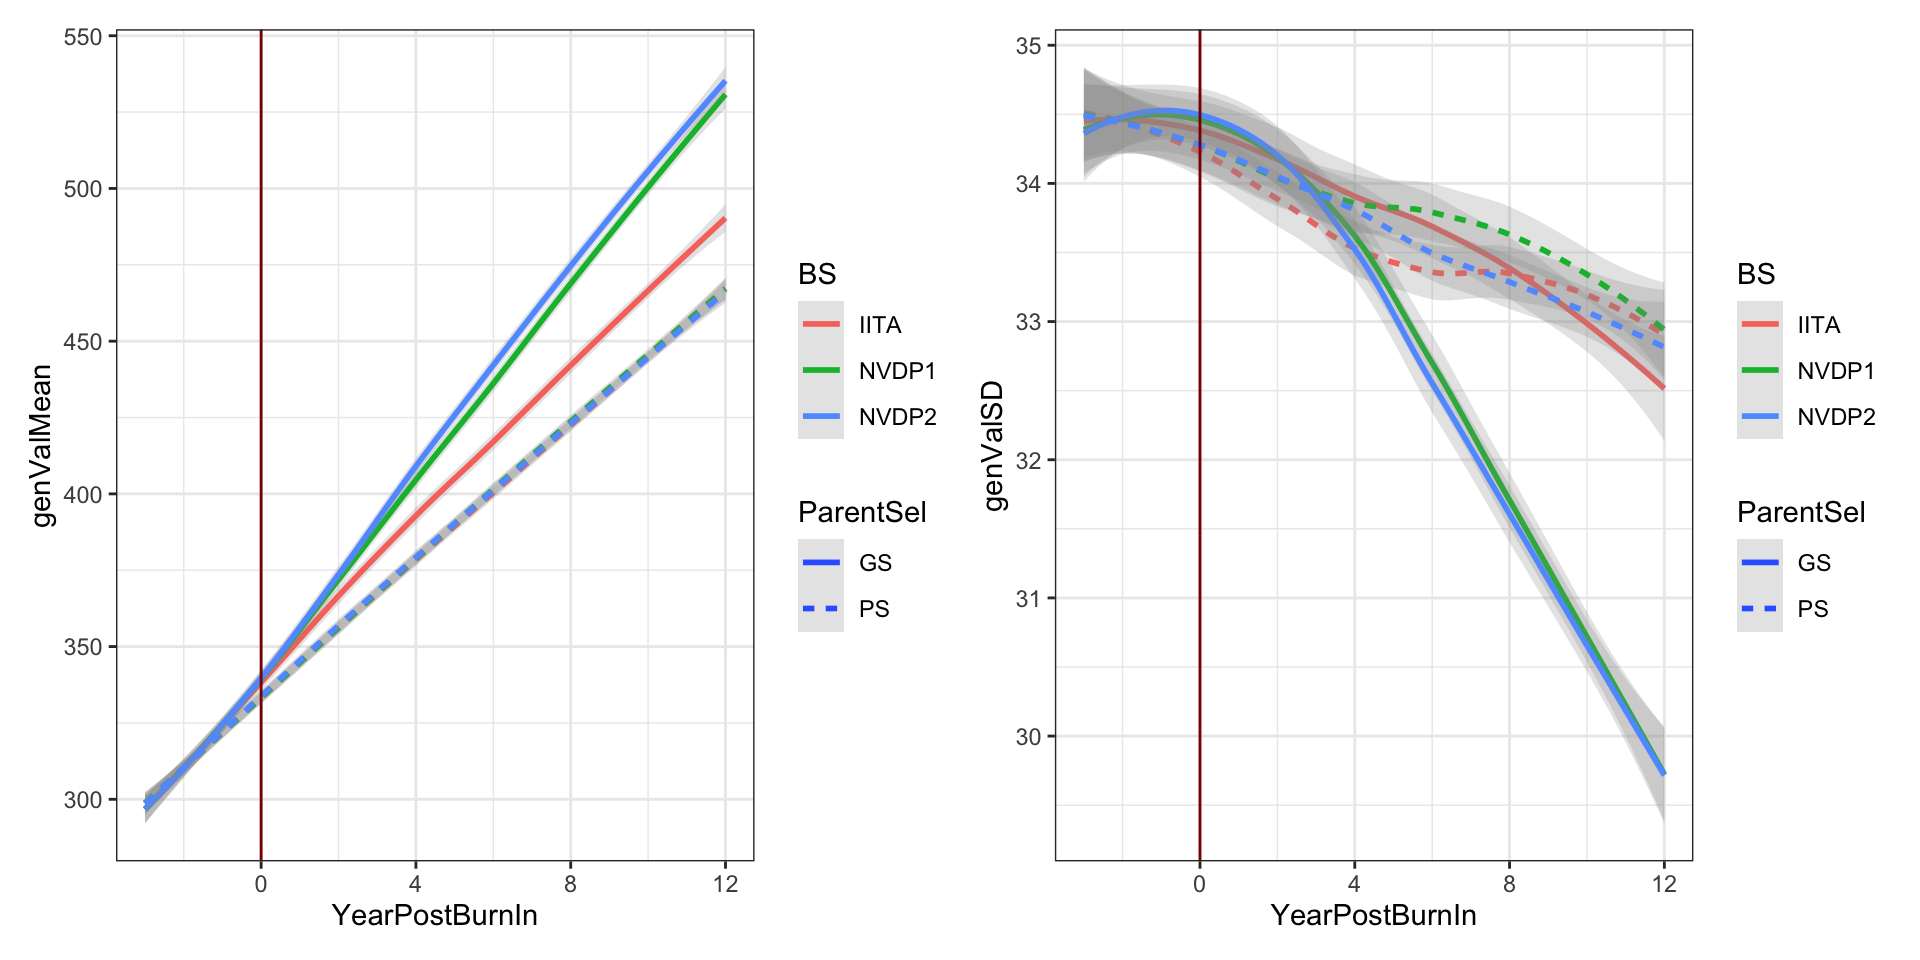
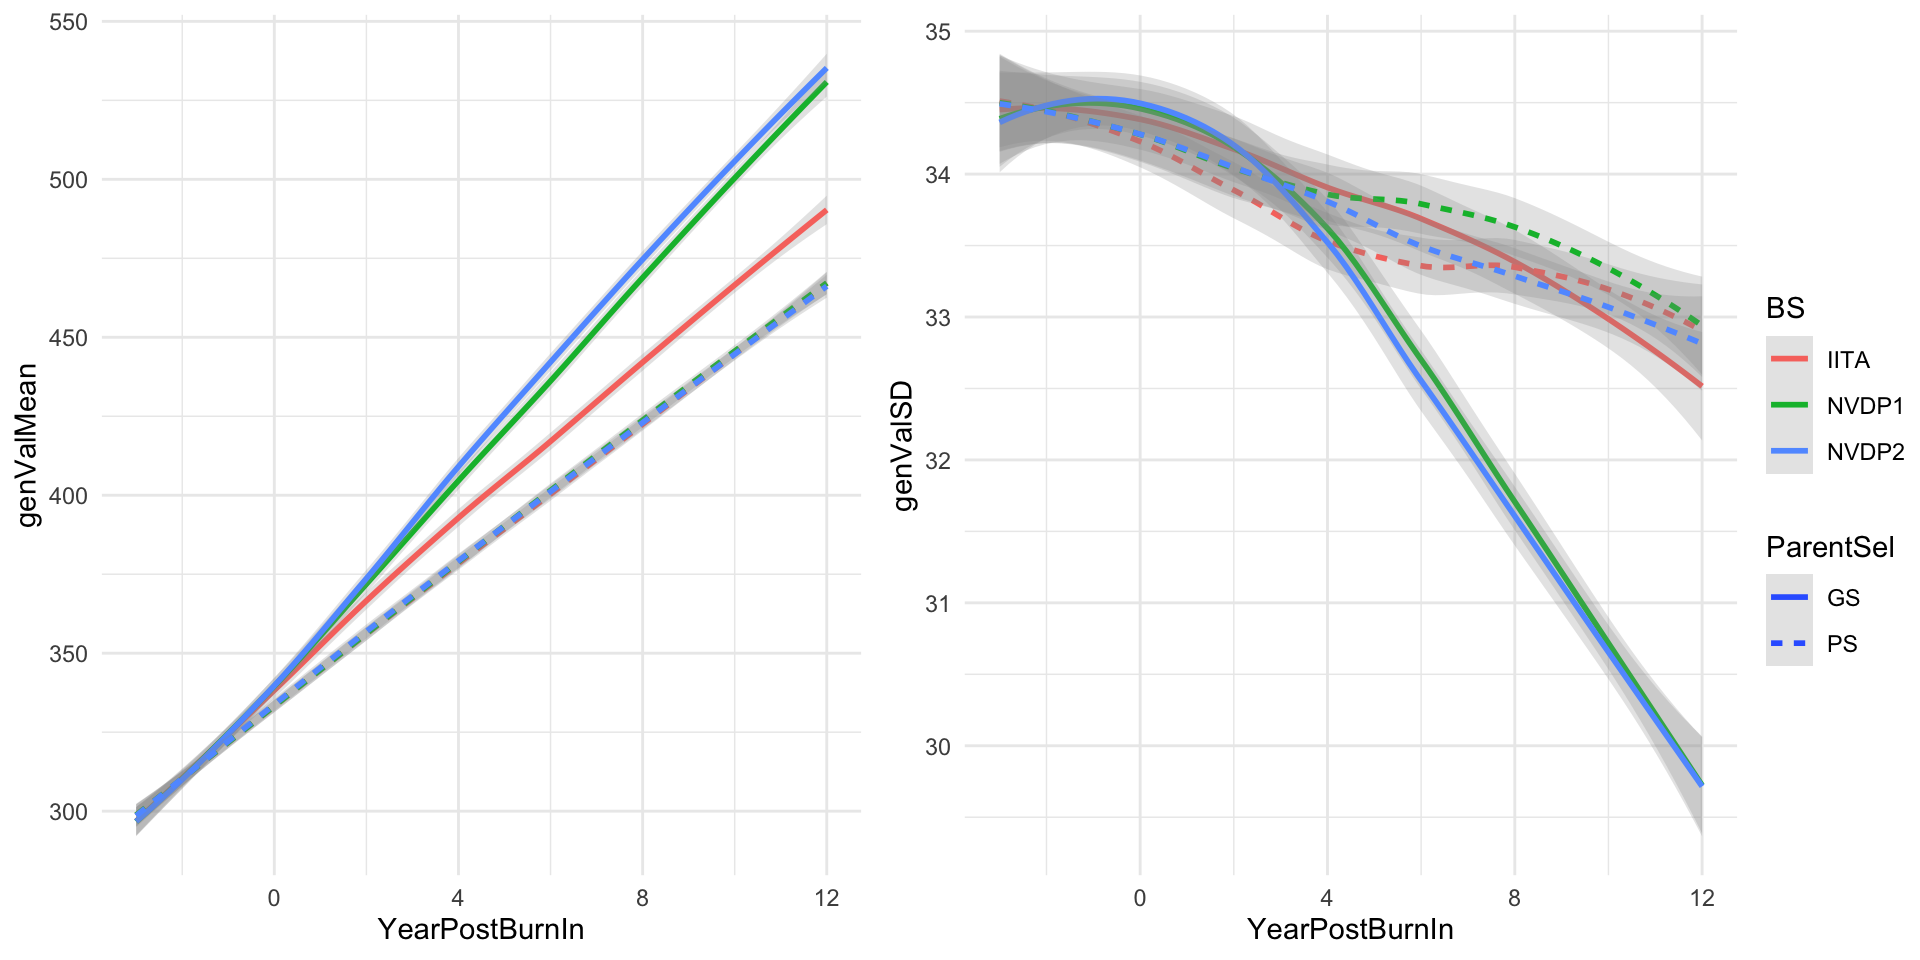
Changuing the figures to have a common legend

diff --git a/docs/VD_Optimization.html b/docs/VD_Optimization.html
@@ -509,16 +509,16 @@ This reproducible <a href="https://rmarkdown.rstudio.com">R Markdown</a> analysi
 <div class="panel panel-default">
 <div class="panel-heading">
 <p class="panel-title">
-<a data-toggle="collapse" data-parent="#workflowr-checks" href="#strongRepositoryversionstrongahrefhttpsgithubcomLucianoRogerioCassavaBreedingSimtreefb5483506c7ab6e9d56990ff02b90df05d6ae77atargetblankfb54835a"> <span class="glyphicon glyphicon-ok text-success" aria-hidden="true"></span> <strong>Repository version:</strong> <a href="https://github.com/LucianoRogerio/CassavaBreedingSim/tree/fb5483506c7ab6e9d56990ff02b90df05d6ae77a" target="_blank">fb54835</a> </a>
+<a data-toggle="collapse" data-parent="#workflowr-checks" href="#strongRepositoryversionstrongahrefhttpsgithubcomLucianoRogerioCassavaBreedingSimtree93d96138687aaa1ee86970a0293a97dfa7d9aa11targetblank93d9613a"> <span class="glyphicon glyphicon-ok text-success" aria-hidden="true"></span> <strong>Repository version:</strong> <a href="https://github.com/LucianoRogerio/CassavaBreedingSim/tree/93d96138687aaa1ee86970a0293a97dfa7d9aa11" target="_blank">93d9613</a> </a>
 </p>
 </div>
[2 lines of base64/hex data omitted]
 <div class="panel-body">
 <p>
 Great! You are using Git for version control. Tracking code development and connecting the code version to the results is critical for reproducibility.
 </p>
 <p>
-The results in this page were generated with repository version <a href="https://github.com/LucianoRogerio/CassavaBreedingSim/tree/fb5483506c7ab6e9d56990ff02b90df05d6ae77a" target="_blank">fb54835</a>. See the <em>Past versions</em> tab to see a history of the changes made to the R Markdown and HTML files.
+The results in this page were generated with repository version <a href="https://github.com/LucianoRogerio/CassavaBreedingSim/tree/93d96138687aaa1ee86970a0293a97dfa7d9aa11" target="_blank">93d9613</a>. See the <em>Past versions</em> tab to see a history of the changes made to the R Markdown and HTML files.
 </p>
 <p>
 Note that you need to be careful to ensure that all relevant files for the analysis have been committed to Git prior to generating the results (you can use <code>wflow_publish</code> or <code>wflow_git_commit</code>). workflowr only checks the R Markdown file, but you know if there are other scripts or data files that it depends on. Below is the status of the Git repository when the results were generated:
@@ -528,24 +528,11 @@ Ignored files:
     Ignored:    .DS_Store
     Ignored:    .Rhistory
     Ignored:    .Rproj.user/
+    Ignored:    analysis/figure/
     Ignored:    output/.Rhistory
 
-Untracked files:
-    Untracked:  output/DataSimPlotIITA_F1.rds
-    Untracked:  output/DataSimPlotIITA_NVDP2_AYT.rds
-    Untracked:  output/DataSimPlotIITA_NVDP2_F1.rds
-    Untracked:  output/DataSimPlotIITA_NVDP_F1.rds
-    Untracked:  output/DataSimPlotIITA_NVDP_UYT1.rds
-    Untracked:  output/DataSimPlotIITA_UYT2.rds
-    Untracked:  output/F1ResultsIITA.rds
-    Untracked:  output/LastStageResultsIITA.rds
-
 Unstaged changes:
-    Modified:   analysis/IITABS.Rmd
-    Modified:   analysis/NVDP1.Rmd
-    Modified:   analysis/NVDP2.Rmd
     Modified:   analysis/VD_Optimization.Rmd
-    Modified:   analysis/graphics.Rmd
 
 </code></pre>
 <p>
@@ -584,6 +571,40 @@ Message
 </tr>
 </thead>
 <tbody>
+<tr>
+<td>
+Rmd
+</td>
+<td>
+<a href="https://github.com/LucianoRogerio/CassavaBreedingSim/blob/93d96138687aaa1ee86970a0293a97dfa7d9aa11/analysis/VD_Optimization.Rmd" target="_blank">93d9613</a>
+</td>
+<td>
+LucianoRogerio
+</td>
+<td>
+2022-01-27
+</td>
+<td>
+New Results from first Simulations with NVDP
+</td>
+</tr>
+<tr>
+<td>
+html
+</td>
+<td>
+<a href="https://rawcdn.githack.com/LucianoRogerio/CassavaBreedingSim/93d96138687aaa1ee86970a0293a97dfa7d9aa11/docs/VD_Optimization.html" target="_blank">93d9613</a>
+</td>
+<td>
+LucianoRogerio
+</td>
+<td>
+2022-01-27
+</td>
+<td>
+New Results from first Simulations with NVDP
+</td>
+</tr>
 <tr>
 <td>
 html
@@ -1230,6 +1251,8 @@ IITAScheme %&gt;% reactable()</code></pre>
 <h4>Figure 1</h4>
 <pre><code>Warning: Using alpha for a discrete variable is not advised.
 
+Warning: Using alpha for a discrete variable is not advised.
+
 Warning: Using alpha for a discrete variable is not advised.</code></pre>
 <p><img src="figure/VD_Optimization.Rmd/unnamed-chunk-4-1.png" width="960" style="display: block; margin: auto;" /></p>
 <p>
@@ -1254,6 +1277,17 @@ Date
 </tr>
 </thead>
 <tbody>
+<tr>
+<td>
+<a href="https://github.com/LucianoRogerio/CassavaBreedingSim/blob/93d96138687aaa1ee86970a0293a97dfa7d9aa11/docs/figure/VD_Optimization.Rmd/unnamed-chunk-4-1.png" target="_blank">93d9613</a>
+</td>
+<td>
+LucianoRogerio
+</td>
+<td>
+2022-01-27
+</td>
+</tr>
 <tr>
 <td>
 <a href="https://github.com/LucianoRogerio/CassavaBreedingSim/blob/69e0b17c8fecab6a8e2e527fef47b02ec89d6cb1/docs/figure/VD_Optimization.Rmd/unnamed-chunk-4-1.png" target="_blank">69e0b17</a>
@@ -1308,6 +1342,17 @@ Date
 <tbody>
 <tr>
 <td>
+<a href="https://github.com/LucianoRogerio/CassavaBreedingSim/blob/93d96138687aaa1ee86970a0293a97dfa7d9aa11/docs/figure/VD_Optimization.Rmd/unnamed-chunk-5-1.png" target="_blank">93d9613</a>
+</td>
+<td>
+LucianoRogerio
+</td>
+<td>
+2022-01-27
+</td>
+</tr>
+<tr>
+<td>
 <a href="https://github.com/LucianoRogerio/CassavaBreedingSim/blob/69e0b17c8fecab6a8e2e527fef47b02ec89d6cb1/docs/figure/VD_Optimization.Rmd/unnamed-chunk-5-1.png" target="_blank">69e0b17</a>
 </td>
 <td>
@@ -1340,6 +1385,8 @@ LucianoRogerio
 <h4>Figure 1</h4>
 <pre><code>Warning: Using alpha for a discrete variable is not advised.
 
+Warning: Using alpha for a discrete variable is not advised.
+
 Warning: Using alpha for a discrete variable is not advised.</code></pre>
 <p><img src="figure/VD_Optimization.Rmd/unnamed-chunk-6-1.png" width="960" style="display: block; margin: auto;" /></p>
 <p>
@@ -1364,6 +1411,17 @@ Date
 </tr>
 </thead>
 <tbody>
+<tr>
+<td>
+<a href="https://github.com/LucianoRogerio/CassavaBreedingSim/blob/93d96138687aaa1ee86970a0293a97dfa7d9aa11/docs/figure/VD_Optimization.Rmd/unnamed-chunk-6-1.png" target="_blank">93d9613</a>
+</td>
+<td>
+LucianoRogerio
+</td>
+<td>
+2022-01-27
+</td>
+</tr>
 <tr>
 <td>
 <a href="https://github.com/LucianoRogerio/CassavaBreedingSim/blob/69e0b17c8fecab6a8e2e527fef47b02ec89d6cb1/docs/figure/VD_Optimization.Rmd/unnamed-chunk-6-1.png" target="_blank">69e0b17</a>
@@ -1451,6 +1509,17 @@ Date
 <tbody>
 <tr>
 <td>
+<a href="https://github.com/LucianoRogerio/CassavaBreedingSim/blob/93d96138687aaa1ee86970a0293a97dfa7d9aa11/docs/figure/VD_Optimization.Rmd/unnamed-chunk-7-1.png" target="_blank">93d9613</a>
+</td>
+<td>
+LucianoRogerio
+</td>
+<td>
+2022-01-27
+</td>
+</tr>
+<tr>
+<td>
 <a href="https://github.com/LucianoRogerio/CassavaBreedingSim/blob/69e0b17c8fecab6a8e2e527fef47b02ec89d6cb1/docs/figure/VD_Optimization.Rmd/unnamed-chunk-7-1.png" target="_blank">69e0b17</a>
 </td>
 <td>
@@ -1508,30 +1577,31 @@ attached base packages:
 [1] stats     graphics  grDevices utils     datasets  methods   base     
 
 other attached packages:
- [1] patchwork_1.1.1 here_1.0.1      reactable_0.2.3 forcats_0.5.1  
+ [1] ggpubr_0.4.0    here_1.0.1      reactable_0.2.3 forcats_0.5.1  
  [5] stringr_1.4.0   dplyr_1.0.7     purrr_0.3.4     readr_2.1.1    
  [9] tidyr_1.1.4     tibble_3.1.6    ggplot2_3.3.5   tidyverse_1.3.1
 
 loaded via a namespace (and not attached):
- [1] httr_1.4.2        sass_0.4.0        jsonlite_1.7.3    splines_4.1.1    
- [5] modelr_0.1.8      bslib_0.3.1       assertthat_0.2.1  highr_0.9        
- [9] cellranger_1.1.0  yaml_2.2.1        lattice_0.20-45   pillar_1.6.4     
-[13] backports_1.4.1   glue_1.6.0        digest_0.6.29     promises_1.2.0.1 
-[17] rvest_1.0.2       colorspace_2.0-2  Matrix_1.4-0      htmltools_0.5.2  
-[21] httpuv_1.6.5      reactR_0.4.4      pkgconfig_2.0.3   broom_0.7.11     
-[25] haven_2.4.3       scales_1.1.1      whisker_0.4       later_1.3.0      
-[29] tzdb_0.2.0        git2r_0.29.0      mgcv_1.8-38       generics_0.1.1   
-[33] farver_2.1.0      ellipsis_0.3.2    withr_2.4.3       cli_3.1.0        
-[37] magrittr_2.0.1    crayon_1.4.2      readxl_1.3.1      evaluate_0.14    
-[41] fs_1.5.2          fansi_1.0.2       nlme_3.1-153      xml2_1.3.3       
-[45] tools_4.1.1       hms_1.1.1         lifecycle_1.0.1   munsell_0.5.0    
-[49] reprex_2.0.1      compiler_4.1.1    jquerylib_0.1.4   rlang_0.4.12     
-[53] grid_4.1.1        rstudioapi_0.13   htmlwidgets_1.5.4 crosstalk_1.2.0  
-[57] labeling_0.4.2    rmarkdown_2.11    gtable_0.3.0      DBI_1.1.2        
-[61] R6_2.5.1          lubridate_1.8.0   knitr_1.37        fastmap_1.1.0    
-[65] utf8_1.2.2        workflowr_1.7.0   rprojroot_2.0.2   stringi_1.7.6    
-[69] Rcpp_1.0.8        vctrs_0.3.8       dbplyr_2.1.1      tidyselect_1.1.1 
-[73] xfun_0.29        </code></pre>
+ [1] nlme_3.1-153      fs_1.5.2          lubridate_1.8.0   httr_1.4.2       
+ [5] rprojroot_2.0.2   tools_4.1.1       backports_1.4.1   bslib_0.3.1      
+ [9] utf8_1.2.2        R6_2.5.1          DBI_1.1.2         mgcv_1.8-38      
+[13] colorspace_2.0-2  withr_2.4.3       tidyselect_1.1.1  gridExtra_2.3    
+[17] compiler_4.1.1    git2r_0.29.0      cli_3.1.0         rvest_1.0.2      
+[21] xml2_1.3.3        labeling_0.4.2    sass_0.4.0        scales_1.1.1     
+[25] digest_0.6.29     rmarkdown_2.11    pkgconfig_2.0.3   htmltools_0.5.2  
+[29] dbplyr_2.1.1      fastmap_1.1.0     highr_0.9         htmlwidgets_1.5.4
+[33] rlang_0.4.12      readxl_1.3.1      rstudioapi_0.13   jquerylib_0.1.4  
+[37] generics_0.1.1    farver_2.1.0      jsonlite_1.7.3    crosstalk_1.2.0  
+[41] car_3.0-12        magrittr_2.0.1    Matrix_1.4-0      Rcpp_1.0.8       
+[45] munsell_0.5.0     fansi_1.0.2       abind_1.4-5       lifecycle_1.0.1  
+[49] stringi_1.7.6     whisker_0.4       yaml_2.2.1        carData_3.0-5    
+[53] grid_4.1.1        promises_1.2.0.1  crayon_1.4.2      lattice_0.20-45  
+[57] haven_2.4.3       cowplot_1.1.1     splines_4.1.1     hms_1.1.1        
+[61] knitr_1.37        pillar_1.6.4      ggsignif_0.6.3    reprex_2.0.1     
+[65] glue_1.6.0        evaluate_0.14     modelr_0.1.8      vctrs_0.3.8      
+[69] tzdb_0.2.0        httpuv_1.6.5      cellranger_1.1.0  gtable_0.3.0     
+[73] reactR_0.4.4      assertthat_0.2.1  xfun_0.29         broom_0.7.11     
+[77] rstatix_0.7.0     later_1.3.0       workflowr_1.7.0   ellipsis_0.3.2   </code></pre>
 </div>
 </div>
 </div>
